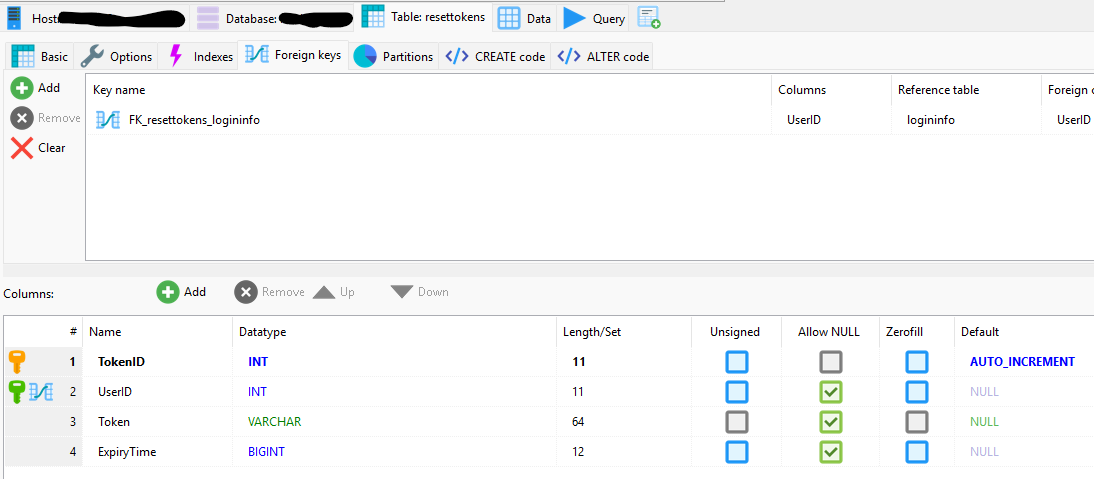
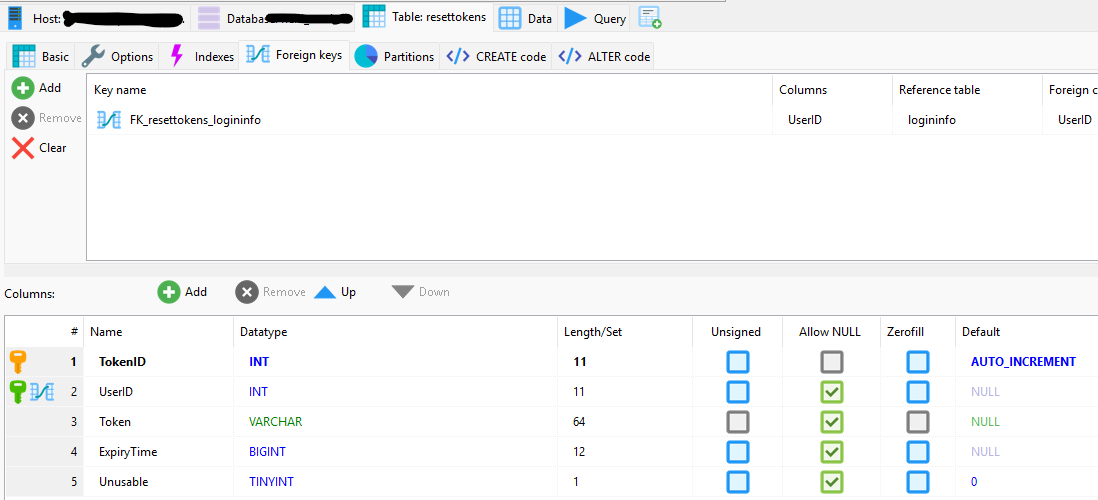
Reset token changes
Changed how tokens are handled so that they aren't deleted but are still unusable in the table

diff --git a/resetpass.php b/resetpass.php
@@ -27,8 +27,10 @@ if (strlen($urltoken) != 64) {
         $expiry = $values["ExpiryTime"];
         $currtime = time();
         // Finally, it checks its expiry time to check if the token has expired or not
-        if ($currtime > $expiry) {
+        if (($currtime > $expiry) or $values["Unusable"] == 1) {
             $_SESSION['reseterr'] = '<script>alert("Token was invalid (expired), redirected to login page.")</script>';
+            $removeQuery = "UPDATE resettokens SET Unusable = 1 WHERE Token = '$token'";
+            $remove = mysqli_query($conn, $removeQuery);
             header("Location: /login.php");
         }
     }

diff --git a/methods/passreset.php b/methods/passreset.php
@@ -37,9 +37,9 @@ if (!($newPass == $confPass)) {
         else
         {
             echo "Successfully updated database";
-            // If it worked properly, it removes the row with that token so that it can't be reused
-            $tokenQuery = "DELETE FROM resettokens WHERE Token = '$token'";
-            $remove = mysqli_query($conn, $tokenQuery);
+            // If it worked properly, it disables the row with that token so that it can't be reused
+            $removeQuery = "UPDATE resettokens SET Unusable = 1 WHERE Token = '$token'";
+            $remove = mysqli_query($conn, $removeQuery);
         }
     }
 }
